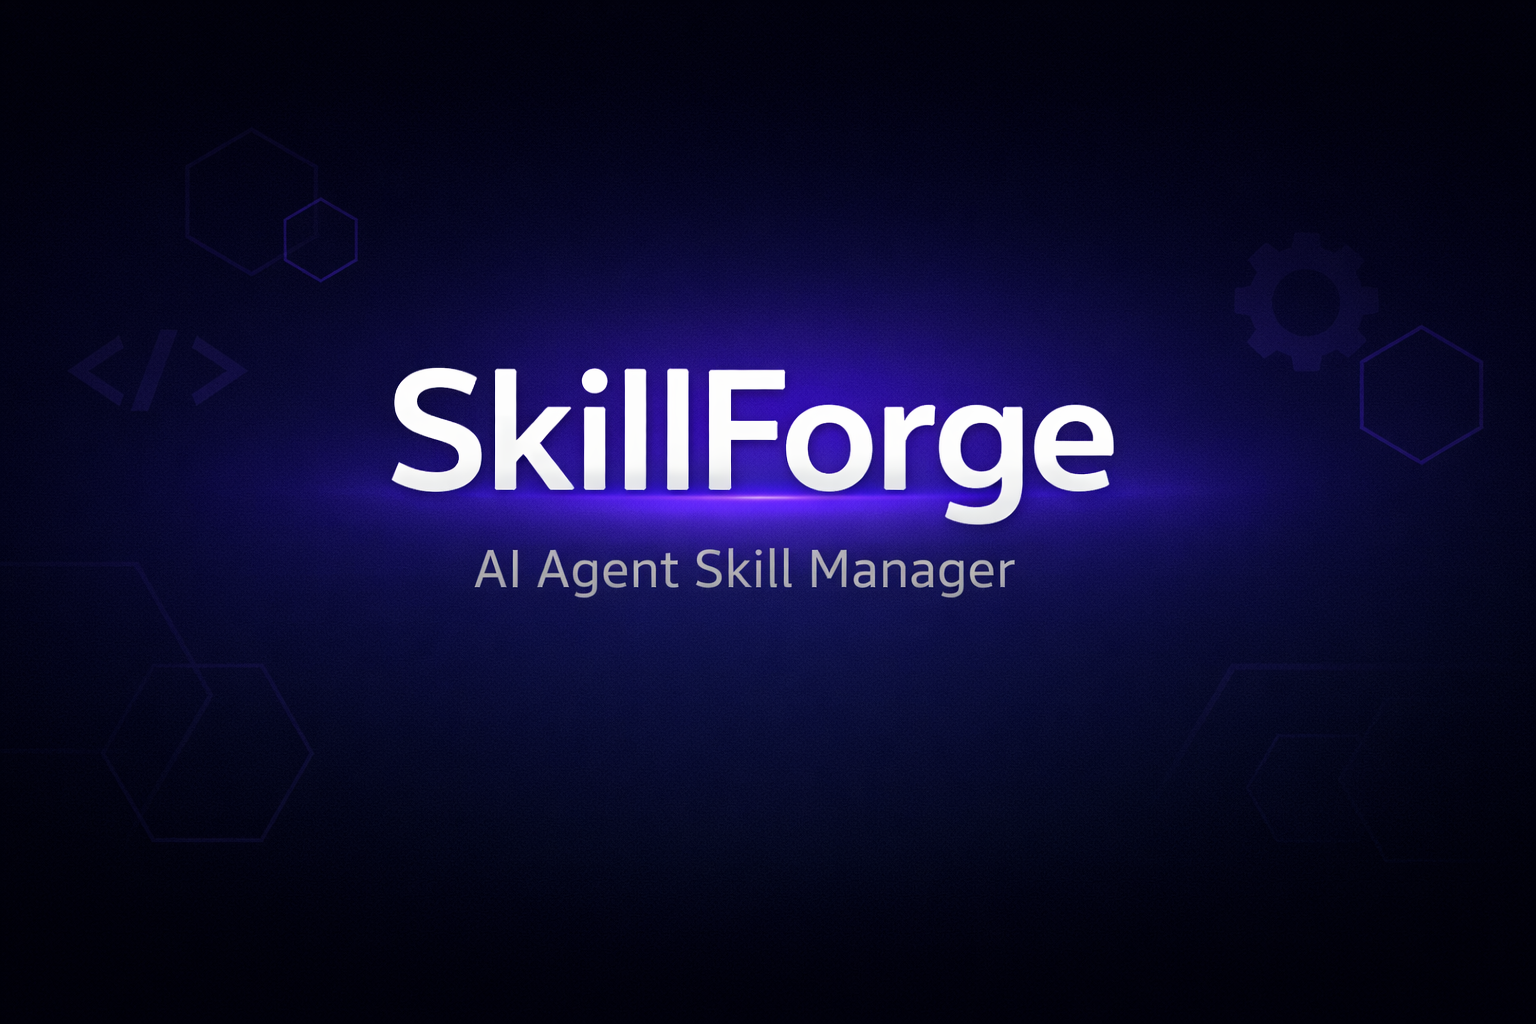
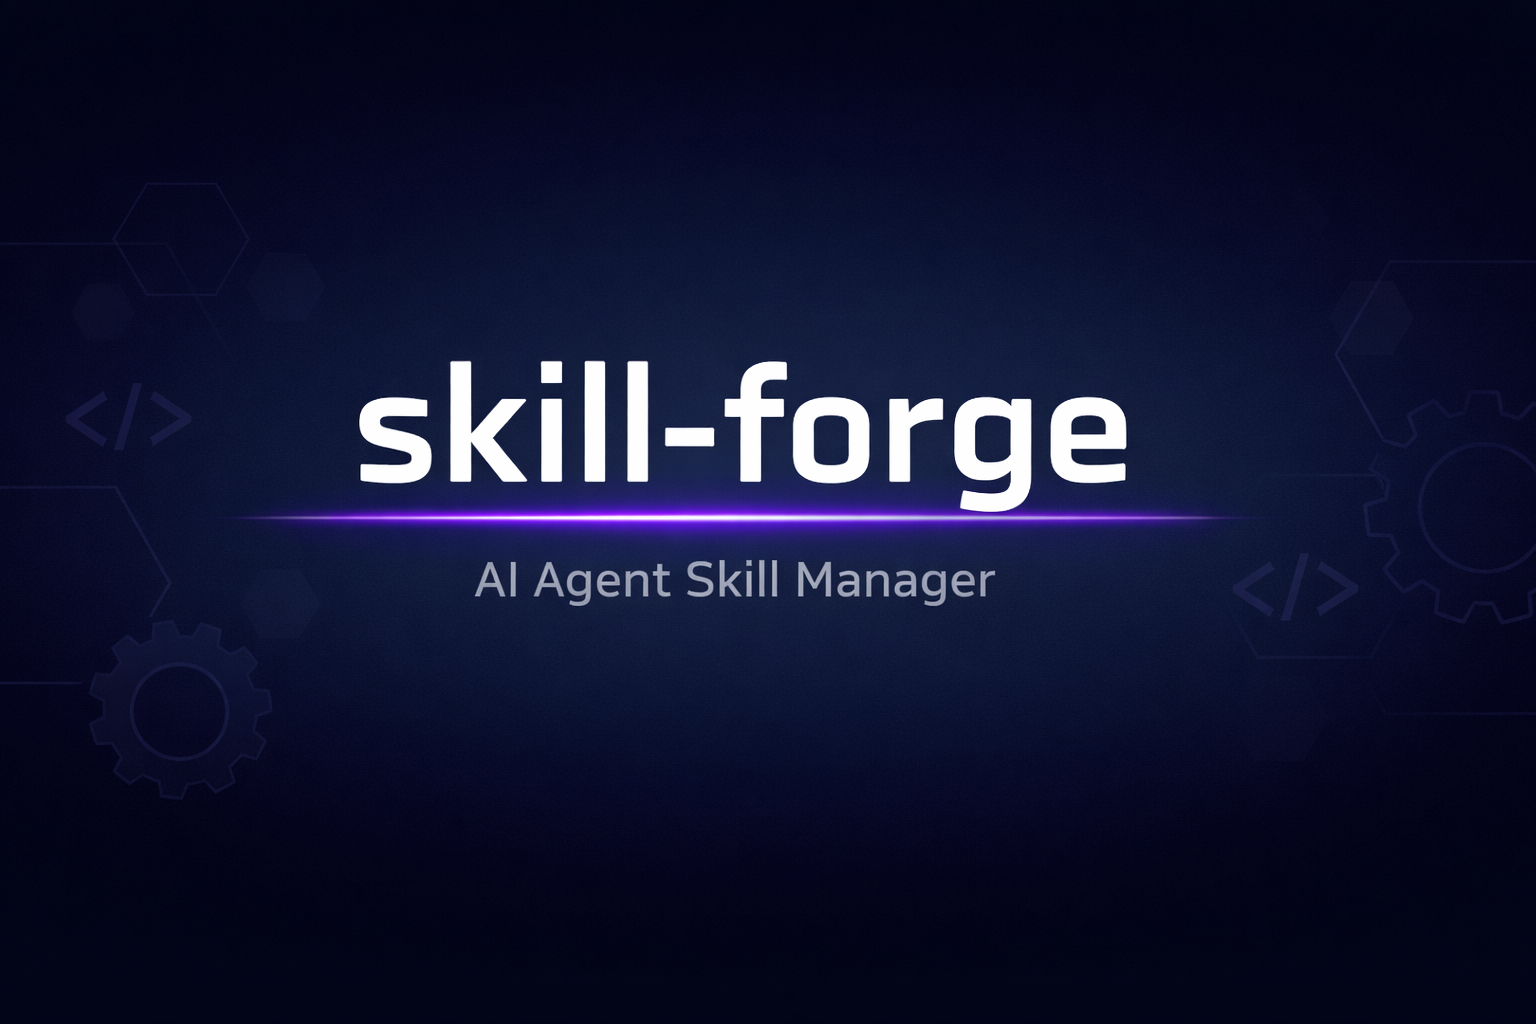
rebrand: rename to skill-forge across repo, files, and UI

diff --git a/skill-forge.html b/skill-forge.html
@@ -3,8 +3,8 @@
 <head>
 <meta charset="UTF-8">
 <meta name="viewport" content="width=device-width, initial-scale=1.0">
-<meta name="description" content="SkillForge — A zero-install, single-file AI agent skill manager">
-<title>SkillForge — AI Agent Skill Manager</title>
+<meta name="description" content="skill-forge — A zero-install, single-file AI agent skill manager">
+<title>skill-forge — AI Agent Skill Manager</title>
 <style>
 
 :root {
@@ -359,7 +359,7 @@ textarea.code-editor:focus { outline: none; }
 <body>
 <script>
 
-// Copyright 2026 SkillForge Contributors
+// Copyright 2026 skill-forge Contributors
 // Licensed under the Apache License, Version 2.0
 // https://www.apache.org/licenses/LICENSE-2.0
 
@@ -1322,7 +1322,7 @@ function renderWelcome() {
   const inner = el('div', { className: 'welcome-inner' });
   inner.innerHTML = `
     <div class="welcome-logo">SF</div>
-    <h1>SkillForge</h1>
+    <h1>skill-forge</h1>
     <p>Manage your AI agent skills visually. Create, edit, organize, and deploy skills from your browser — no terminal needed.</p>
     <div class="welcome-paths">
       <strong>Common skill folder locations:</strong>
@@ -1353,7 +1353,7 @@ function renderSidebar() {
   sidebar.innerHTML = `
     <div class="sidebar-header">
       <div class="sidebar-logo">SF</div>
-      <div class="sidebar-title">SkillForge</div>
+      <div class="sidebar-title">skill-forge</div>
     </div>
   `;
   const nav = el('div', { className: 'sidebar-nav' });
@@ -1385,7 +1385,7 @@ function renderSidebar() {
   const folderBtn = el('button', { className: 'btn btn-ghost btn-sm', onClick: openFolder });
   folderBtn.innerHTML = `${icon('folder', 14)} Change Folder`;
   footer.appendChild(folderBtn);
-  footer.appendChild(el('span', { textContent: 'SkillForge v1.0 — Apache 2.0', style: { fontSize: '11px' } }));
+  footer.appendChild(el('span', { textContent: 'skill-forge v1.0 — Apache 2.0', style: { fontSize: '11px' } }));
   sidebar.appendChild(footer);
   return sidebar;
 }
@@ -2788,7 +2788,7 @@ function renderSettings() {
 
   // About
   wrap.appendChild(el('h3', { textContent: 'About', style: { marginTop: '24px', marginBottom: '8px' } }));
-  wrap.appendChild(el('p', { textContent: 'SkillForge v2.0 — A zero-install, single-file AI agent skill manager.', style: { color: 'var(--text-muted)', fontSize: '14px' } }));
+  wrap.appendChild(el('p', { textContent: 'skill-forge v2.0 — A zero-install, single-file AI agent skill manager.', style: { color: 'var(--text-muted)', fontSize: '14px' } }));
   wrap.appendChild(el('p', { textContent: 'Licensed under Apache License 2.0', style: { color: 'var(--text-muted)', fontSize: '13px' } }));
 
   return wrap;
@@ -3168,7 +3168,7 @@ function generateMcpServerScript() {
   const skillsPath = State.dirHandle ? State.dirHandle.name : '~/.claude/skills';
 
   return `#!/usr/bin/env node
-// SkillForge MCP Server — generated by SkillForge
+// skill-forge MCP Server — generated by skill-forge
 // Install: npm install @modelcontextprotocol/sdk js-yaml
 // Run:     node skillforge-mcp-server.js
 //
@@ -3316,11 +3316,11 @@ server.setRequestHandler(CallToolRequestSchema, async (request) => {
 // Start server
 async function main() {
   const transport = new StdioServerTransport();
-  console.error('SkillForge MCP Server starting...');
+  console.error('skill-forge MCP Server starting...');
   console.error('Skills directory: ' + SKILLS_DIR);
   console.error('Allowed operations: ' + [...ALLOWED_OPS].join(', '));
   await server.connect(transport);
-  console.error('SkillForge MCP Server running on stdio');
+  console.error('skill-forge MCP Server running on stdio');
 }
 
 main().catch((err) => { console.error('Failed to start:', err); process.exit(1); });

diff --git a/generate.py b/generate.py
@@ -1,7 +1,7 @@
 #!/usr/bin/env python3
 """
-Generate SkillForge.html — a complete single-file AI Agent Skill Manager.
-Copyright 2026 SkillForge Contributors — Apache License 2.0
+Generate skill-forge.html — a complete single-file AI Agent Skill Manager.
+Copyright 2026 skill-forge Contributors — Apache License 2.0
 """
 
 import textwrap
@@ -332,7 +332,7 @@ def build_html():
 
     # ── JavaScript ────────────────────────────────────────────────────────
     js = textwrap.dedent(r'''
-    // Copyright 2026 SkillForge Contributors
+    // Copyright 2026 skill-forge Contributors
     // Licensed under the Apache License, Version 2.0
     // https://www.apache.org/licenses/LICENSE-2.0
 
@@ -1166,7 +1166,7 @@ def build_html():
       const inner = el('div', { className: 'welcome-inner' });
       inner.innerHTML = `
         <div class="welcome-logo">SF</div>
-        <h1>SkillForge</h1>
+        <h1>skill-forge</h1>
         <p>Manage your AI agent skills visually. Create, edit, organize, and deploy skills from your browser — no terminal needed.</p>
         <div class="welcome-paths">
           <strong>Common skill folder locations:</strong>
@@ -1197,7 +1197,7 @@ def build_html():
       sidebar.innerHTML = `
         <div class="sidebar-header">
           <div class="sidebar-logo">SF</div>
-          <div class="sidebar-title">SkillForge</div>
+          <div class="sidebar-title">skill-forge</div>
         </div>
       `;
       const nav = el('div', { className: 'sidebar-nav' });
@@ -1228,7 +1228,7 @@ def build_html():
       const folderBtn = el('button', { className: 'btn btn-ghost btn-sm', onClick: openFolder });
       folderBtn.innerHTML = `${icon('folder', 14)} Change Folder`;
       footer.appendChild(folderBtn);
-      footer.appendChild(el('span', { textContent: 'SkillForge v1.0 — Apache 2.0', style: { fontSize: '11px' } }));
+      footer.appendChild(el('span', { textContent: 'skill-forge v1.0 — Apache 2.0', style: { fontSize: '11px' } }));
       sidebar.appendChild(footer);
       return sidebar;
     }
@@ -2044,7 +2044,7 @@ def build_html():
 
       // About
       wrap.appendChild(el('h3', { textContent: 'About', style: { marginTop: '24px', marginBottom: '8px' } }));
-      wrap.appendChild(el('p', { textContent: 'SkillForge v1.0 — A zero-install, single-file AI agent skill manager.', style: { color: 'var(--text-muted)', fontSize: '14px' } }));
+      wrap.appendChild(el('p', { textContent: 'skill-forge v1.0 — A zero-install, single-file AI agent skill manager.', style: { color: 'var(--text-muted)', fontSize: '14px' } }));
       wrap.appendChild(el('p', { textContent: 'Licensed under Apache License 2.0', style: { color: 'var(--text-muted)', fontSize: '13px' } }));
 
       return wrap;
@@ -2250,8 +2250,8 @@ def build_html():
 <head>
 <meta charset="UTF-8">
 <meta name="viewport" content="width=device-width, initial-scale=1.0">
-<meta name="description" content="SkillForge — A zero-install, single-file AI agent skill manager">
-<title>SkillForge — AI Agent Skill Manager</title>
+<meta name="description" content="skill-forge — A zero-install, single-file AI agent skill manager">
+<title>skill-forge — AI Agent Skill Manager</title>
 <style>
 {css}
 </style>
@@ -2267,7 +2267,7 @@ def build_html():
 
 if __name__ == '__main__':
     html = build_html()
-    with open('SkillForge.html', 'w', encoding='utf-8') as f:
+    with open('skill-forge.html', 'w', encoding='utf-8') as f:
         f.write(html)
     size = len(html.encode('utf-8'))
-    print(f'Generated SkillForge.html — {size:,} bytes ({size/1024:.1f} KB)')
+    print(f'Generated skill-forge.html — {size:,} bytes ({size/1024:.1f} KB)')

diff --git a/README.md b/README.md
@@ -1,6 +1,6 @@
-# SkillForge
+# skill-forge
 
-[![CI](https://github.com/gtm-k/SkillForge/actions/workflows/ci.yml/badge.svg)](https://github.com/gtm-k/SkillForge/actions/workflows/ci.yml)
+[![CI](https://github.com/gtm-k/skill-forge/actions/workflows/ci.yml/badge.svg)](https://github.com/gtm-k/skill-forge/actions/workflows/ci.yml)
 [![License: Apache 2.0](https://img.shields.io/badge/License-Apache_2.0-blue.svg)](https://opensource.org/licenses/Apache-2.0)
 [![Single File](https://img.shields.io/badge/Single_File-HTML-orange.svg)](#)
 [![Size](https://img.shields.io/badge/Size-~181_KB-green.svg)](#technical-details)
@@ -12,7 +12,7 @@
 
 **A zero-install, single-file AI agent skill manager.**
 
-SkillForge is a self-contained HTML application that gives you a visual, intuitive interface for creating, editing, organizing, and deploying AI agent skills. It reads and writes directly to your local skills folder using the browser's File System Access API — no backend, no account, no npm, and no command line.
+skill-forge is a self-contained HTML application that gives you a visual, intuitive interface for creating, editing, organizing, and deploying AI agent skills. It reads and writes directly to your local skills folder using the browser's File System Access API — no backend, no account, no npm, and no command line.
 
 ## Features
 
@@ -35,7 +35,7 @@ SkillForge is a self-contained HTML application that gives you a visual, intuiti
 
 ## Usage
 
-1. **Download** `SkillForge.html`
+1. **Download `skill-forge.html`
 2. **Double-click** to open it in your browser
 3. Click **Open Skills Folder** and select your agent's skills directory
 4. Start browsing, creating, and editing skills
@@ -44,7 +44,7 @@ That's it. No install, no build, no dependencies.
 
 ### Try It with Demo Skills
 
-Want to explore before creating your own? Point SkillForge at the included [`demo/`](demo/) folder — it contains 5 ready-made skills (code reviewer, commit writer, API doc generator, bug triage, standup prep) you can browse, edit, and experiment with.
+Want to explore before creating your own? Point skill-forge at the included [`demo/`](demo/) folder — it contains 5 ready-made skills (code reviewer, commit writer, API doc generator, bug triage, standup prep) you can browse, edit, and experiment with.
 
 ## Browser Compatibility
 
@@ -70,7 +70,7 @@ Want to explore before creating your own? Point SkillForge at the included [`dem
 
 ## Skill Format Reference
 
-SkillForge reads and writes the [agentskills.io](https://agentskills.io/specification) open standard:
+skill-forge reads and writes the [agentskills.io](https://agentskills.io/specification) open standard:
 
 ```
 skill-name/
@@ -141,4 +141,4 @@ To run CI manually: **Actions** → **CI** → **Run workflow**.
 
 Apache License 2.0 — see [LICENSE](https://www.apache.org/licenses/LICENSE-2.0)
 
-Copyright 2026 SkillForge Contributors
+Copyright 2026 skill-forge Contributors

diff --git a/demo/README.md b/demo/README.md
@@ -1,10 +1,10 @@
 # Demo Skills
 
-This folder contains sample skills you can use to try out SkillForge without creating your own first.
+This folder contains sample skills you can use to try out skill-forge without creating your own first.
 
 ## How to Use
 
-1. Open `SkillForge.html` in your browser
+1. Open `skill-forge.html` in your browser
 2. Click **Open Skills Folder**
 3. Select this `demo/` folder
 4. Browse, edit, and experiment with the sample skills

diff --git a/demo/api-doc-generator/SKILL.md b/demo/api-doc-generator/SKILL.md
@@ -3,7 +3,7 @@ name: api-doc-generator
 description: Generate structured API documentation from source code, OpenAPI specs, or endpoint descriptions. Use when creating or updating API reference docs.
 license: Apache-2.0
 metadata:
-  author: SkillForge Demo
+  author: skill-forge Demo
   version: "1.0"
   tags: documentation, api, development
 allowed-tools: Bash Read Write

diff --git a/demo/code-reviewer/SKILL.md b/demo/code-reviewer/SKILL.md
@@ -3,7 +3,7 @@ name: code-reviewer
 description: Review code changes for quality, security vulnerabilities, and adherence to project standards. Use when reviewing pull requests or code diffs.
 license: Apache-2.0
 metadata:
-  author: SkillForge Demo
+  author: skill-forge Demo
   version: "1.0"
   tags: development, review, security
 allowed-tools: Bash Read

diff --git a/demo/bug-report-triage/SKILL.md b/demo/bug-report-triage/SKILL.md
@@ -3,7 +3,7 @@ name: bug-report-triage
 description: Analyze bug reports to assess severity, identify root cause, and suggest investigation steps. Use when new bug reports arrive or need prioritization.
 license: Apache-2.0
 metadata:
-  author: SkillForge Demo
+  author: skill-forge Demo
   version: "1.0"
   tags: support, triage, productivity
 ---

diff --git a/demo/git-commit-writer/SKILL.md b/demo/git-commit-writer/SKILL.md
@@ -3,7 +3,7 @@ name: git-commit-writer
 description: Generate clear, conventional commit messages from staged changes. Use when committing code to produce well-structured git history.
 license: Apache-2.0
 metadata:
-  author: SkillForge Demo
+  author: skill-forge Demo
   version: "1.0"
   tags: development, git, productivity
 allowed-tools: Bash

diff --git a/demo/daily-standup-prep/SKILL.md b/demo/daily-standup-prep/SKILL.md
@@ -3,7 +3,7 @@ name: daily-standup-prep
 description: Generate concise standup updates from recent work activity, commits, and task boards. Use before daily standup meetings.
 license: Apache-2.0
 metadata:
-  author: SkillForge Demo
+  author: skill-forge Demo
   version: "1.0"
   tags: productivity, meetings, agile
 allowed-tools: Bash Read
